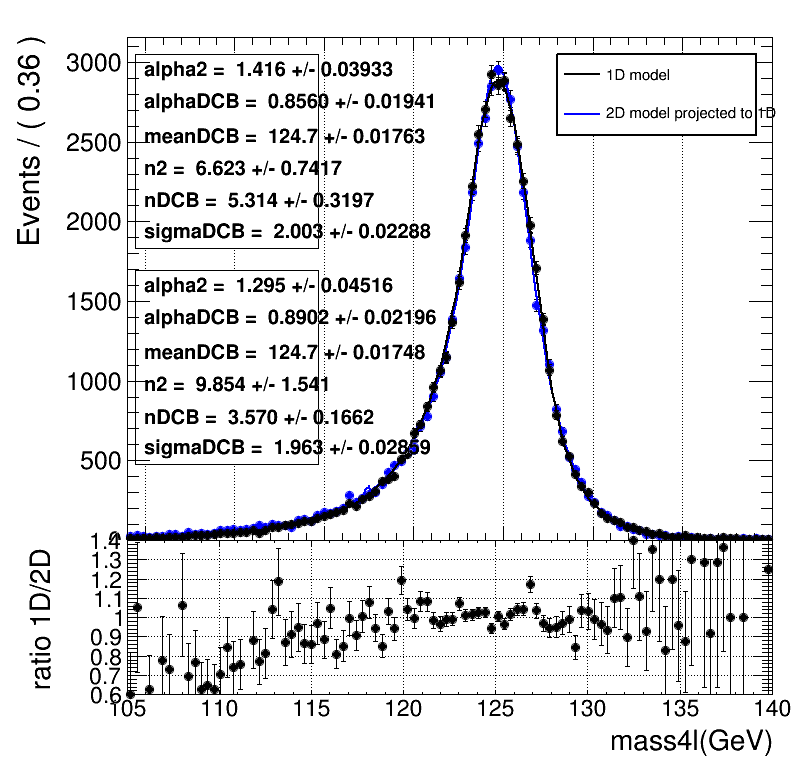
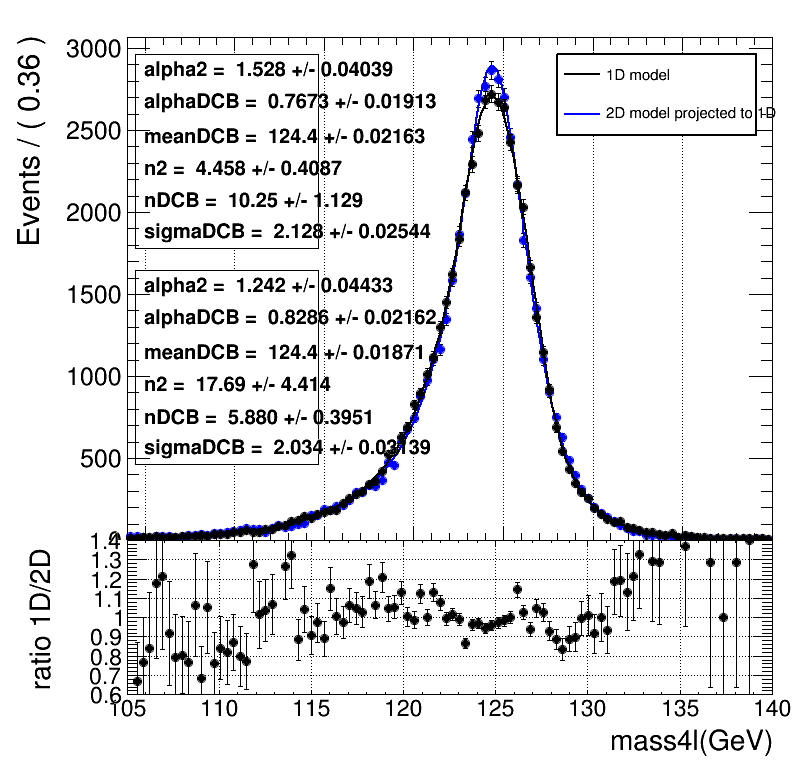
2016MC electron

diff --git a/ZClosure/doAllClosure_mZ.py b/ZClosure/doAllClosure_mZ.py
@@ -3,10 +3,10 @@ import time
 
 def doAllClosure(fs, plotPath, Z_width, plotBinInfo, singleCB_tail, pTErrCorrections):
 
-    massZErr_rel_bins = [0,0.008]
+    massZErr_rel_bins = [0,0.0085]
     nDiv = 8
     for i in range(nDiv):
-       massZErr_rel_bins.append(massZErr_rel_bins[-1]+(0.03-0.008)/nDiv)
+       massZErr_rel_bins.append(massZErr_rel_bins[-1]+(0.03-0.0085)/nDiv)
     massZErr_rel_bins.append(0.04)
     massZErr_rel_bins.append(0.1)
 #    massZErr_rel_bins.append(1)
@@ -24,9 +24,11 @@ def doAllClosure(fs, plotPath, Z_width, plotBinInfo, singleCB_tail, pTErrCorrect
 #    inputpath = '/raid/raid9/mhl/HZZ4L_Run2_post2016ICHEP/outputRoot/DY_2015MC_kalman_v4_NOmassZCut_addpTScaleCorrection/'
 #    inputpath = '/raid/raid9/mhl/HZZ4L_Run2_post2016ICHEP/outputRoot/DY_2015MC_kalman_v4_NOmassZCut/'
  
-    inputpath = '/raid/raid9/mhl/HZZ4L_Run2_post2016ICHEP/outputRoot/Data_2015D/'   
-    filename = 'DoubleLepton_m'+fs+'.root'
-#    filename = 'DYJetsToLL_M-50_kalman_v4_m'+fs+'.root'
+#    inputpath = '/raid/raid9/mhl/HZZ4L_Run2_post2016ICHEP/outputRoot/Data_2015D/'   
+#    filename = 'DoubleLepton_m'+fs+'.root'
+#2016MC
+    inputpath = '/raid/raid9/mhl/HZZ4L_Run2_post2016ICHEP/outputRoot/DY_2016MC_v1_20170201/'
+    filename = 'DYJetsToLL_M-50_kalman_v4_m'+fs+'.root'
     outtxtName = '../makeSummaryPlots/sigma_m'+fs+'.txt'
 
     call('echo " " > ' + outtxtName, shell=True)
@@ -49,7 +51,7 @@ def doAllClosure(fs, plotPath, Z_width, plotBinInfo, singleCB_tail, pTErrCorrect
 
 #plotBinInfo = '100 80 100'
 plotBinInfo = '300 60 120'
-plotpath = '/home/mhl/public_html/2017/20170118_test/scratch/'
+plotpath = '/home/mhl/public_html/2017/20170205_muonPtErrCorr/fitmassZ/'
 
 singleCB_tail_mu = '1.583 1.086' #first is alpha, second is n of singleCB
 singleCB_tail_e = '1.1443 2.5964' #first is alpha, second is n of singleCB
@@ -59,10 +61,10 @@ pTErrCorrections_mu = '1.251 1.292 1.117 1'
 pTErrCorrections_e = '1.245 1.140 1.077 1.178'
 
 #ZWidth = 2.44
-ZWidth = 2.49
+ZWidth = 2.43
 
-#doAllClosure('2mu', plotpath, ZWidth, plotBinInfo, singleCB_tail_mu, pTErrCorrections_mu)
-doAllClosure('2e', plotpath, ZWidth, plotBinInfo, singleCB_tail_e, pTErrCorrections_e)
+doAllClosure('2mu', plotpath, ZWidth, plotBinInfo, singleCB_tail_mu, pTErrCorrections_mu)
+#doAllClosure('2e', plotpath, ZWidth, plotBinInfo, singleCB_tail_e, pTErrCorrections_e)
 #doAllClosure('2e', plotpath, ZWidth, plotBinInfo, doubleCB_tail_e, pTErrCorrections_e)
 
 

diff --git a/compare1D2DModel/compare_fullSim_toy_template_lite.py b/compare1D2DModel/compare_fullSim_toy_template_lite.py
@@ -129,7 +129,7 @@ def MakeComparePlot_1D(w, binInfo, xTitle, yTitle, saveName):
     legend.SetFillColor(0)
     legend.SetBorderSize(1)
     legend.Draw('SAME')
-    c1.SaveAs("/home/mhl/public_html/2016/20161205_mass/m4lfit/"+saveName+".png")
+    c1.SaveAs("/home/mhl/public_html/2017/20170203_Hmass_4e/"+saveName+".png")
 
 #fullSimPath = "/cms/data/store/user/t2/users/mhl/"
 #fullSimPath = "/raid/raid9/mhl/HZZ4L_Run2_post2016ICHEP/HiggsMass_2015MC/Mass_2015MC/Fit_PereventMerr/"
@@ -141,28 +141,28 @@ toyPath = "/raid/raid9/mhl/HZZ4L_Run2/HZZ4L/PereventMassErrCorr_2016ICHEP/getCor
 
 #templatePath = "/raid/raid9/mhl/HZZ4L_Run2_post2016ICHEP/HiggsMass_2015MC/Mass_2015MC/CreateDatacards_Moriond2016_JES_v0_dev_ZJetsOn_10fb_1_ggHOnly_relativeError_test/cards_sm13_1D_refit_2p7fb_CB/HCG/125/"
 
-templatePath = "/raid/raid9/mhl/HZZ4L_Run2_post2016ICHEP/HiggsMass_HZZ4L/packages/doMeasurement/CreateDatacards_test_allFinalStates_v1/cards_sm13_1Debe_refit_2p7fb_CB/HCG/125/"
+templatePath = "/raid/raid9/mhl/HZZ4L_Run2_post2016ICHEP/HiggsMass_HZZ4L/packages/doMeasurement/CreateDatacards_Moriond17_eOnly_20170201/cards_sm13_1Debe_reco_2p7fb_CB/HCG/125/"
 #templatePath = "/raid/raid9/mhl/HZZ4L_Run2_post2016ICHEP/HiggsMass_HZZ4L/packages/doMeasurement/CreateDatacards_test_allFinalStates_v1/cards_sm13_1Debe_reco_2p7fb_CB/HCG/125/"
 
 #fullSimTree = "ggH_2015MC_mH125.root"
-fullSimTree = "test.root"
+fullSimTree = "ggH125_2016MC.root"
 toy = "hzz4l_4muS_13TeV_1D_refit_withToys.input.root"
-template = "hzz4l_2e2muS_13TeV.input.root"
+template = "hzz4l_4eS_13TeV.input.root"
 
 rooVarName = "CMS_zz4l_massErr"
 #varFullSimName = "mass4l"
 #varFullSimName = "mass4lREFIT"
 #pdfName = "ggH_hzz"
 #rooVarName = "CMS_zz4l_massErr"
-varFullSimName = "mass4lErrREFIT/mass4lREFIT"
-#varFullSimName = "mass4lErr/mass4l"
-pdfName = "pdfErrS_3"
+#varFullSimName = "mass4lErrREFIT/mass4lREFIT"
+varFullSimName = "mass4lErr/mass4l"
+pdfName = "pdfErrS_2"
 
-cut = "passedFullSelection && finalState > 2 && mass4l > 105 && mass4l < 140"
+cut = "passedFullSelection && finalState == 2 && mass4l > 105 && mass4l < 140"
 
 xTitle = varFullSimName#"mass4lREFIT"
 yTitle = ""
-saveName = "compare_mass4lErr_model_2e2mu_refit"
+saveName = "compare_mass4lErr_model_4e_reco"
 #saveName = "compare_mass4lErr_model_2e2mu_reco"
 
 path = {'fullSim': fullSimPath, 'toy': toyPath, 'template': templatePath}

diff --git a/HClosure/makePlot_1D_fit.py b/HClosure/makePlot_1D_fit.py
@@ -68,8 +68,14 @@ def MakeFitPlotFromTree(tree, paraConfig, fitResult):
 
     w.factory('DoubleCB::doubleCB(x[' + str(xmin) + ',' + str(xmax) + '], \
                                  meanDCB[125,120,130], sigmaDCB[1,0,10], \
-                                 alphaDCB[0.9876], nDCB[4.394], alpha2[2.022], n2[3.256])')
+                                 alphaDCB[1,0.9,1.1], nDCB[6,5,7], alpha2[2,1.5,2.5], n2[2.5,2,3])')
 
+
+#2016MC
+#4e reco                               alphaDCB[0.895], nDCB[8.383], alpha2[2.238], n2[2.848])')
+#4e refit                              alphaDCB[0.9629], nDCB[6.489], alpha2[2.067], n2[2.408])')
+
+#2015MC
 # 4 point of 4e refit                                 alphaDCB[1.112], nDCB[3.984], alpha2[2.338], n2[2.15])')
 # 3 point of 4e refit                                 alphaDCB[0.9876], nDCB[4.394], alpha2[2.022], n2[3.256])')
 # 3 point of 4e reco                                 alphaDCB[0.95], nDCB[4.23], alpha2[2.189], n2[3.04])')
@@ -104,8 +110,8 @@ def MakeFitPlotFromTree(tree, paraConfig, fitResult):
     
     dataHist1 = RooDataHist('dataHist1', 'dataHist1', RooArgList(w.var('x')), HIST1, 1)
     pdf = w.pdf(pdfName)
-    fFit = pdf.fitTo(dataHist1)#, RooFit.PrintLevel(-1))
-    
+    fFit = pdf.fitTo(dataHist1,RooFit.Save(kTRUE))#, RooFit.PrintLevel(-1))
+
     xframe = w.var('x').frame(RooFit.Title(xTitle))
     
     dataHist1.plotOn(xframe, RooFit.MarkerStyle(20), RooFit.MarkerColor(1))
@@ -132,6 +138,8 @@ def MakeFitPlotFromTree(tree, paraConfig, fitResult):
     dummy.Draw()
     
     xframe.Draw('same')
+    chi2 = xframe.chiSquare(fFit.floatParsFinal().getSize())
+    dof =  fFit.floatParsFinal().getSize()
     
     legend = TLegend(0.15,0.9,0.42,0.95)
     #legend.AddEntry(HIST2, legend2, 'l')
@@ -147,6 +155,8 @@ def MakeFitPlotFromTree(tree, paraConfig, fitResult):
     latex.SetTextFont(42)
     latex.SetTextAlign(11)
     latex.DrawLatex(0.18, 0.45, latexNote1)
+    latex.DrawLatex(0.6, 0.3, "#chi^{2}/DOF = %.3f" %(chi2/dof))
+
     c1.SaveAs(savePath+saveName+'.png')
     c1.SaveAs(savePath+saveName+'.pdf')
 

diff --git a/HClosure/doAllClosure_H.py b/HClosure/doAllClosure_H.py
@@ -12,7 +12,7 @@ def doAllClosure(fs, filename, plotpath, doubleCB_tail, doREFIT):
        mass4lErr_bins.append(1)
     else:
        mass4lErr_bins = [0,0.009]
-       nDiv = 6
+       nDiv = 8#6
        for i in range(nDiv):
            mass4lErr_bins.append(mass4lErr_bins[-1]+(0.02-0.009)/nDiv)
        mass4lErr_bins.append(1)
@@ -45,8 +45,8 @@ def doAllClosure(fs, filename, plotpath, doubleCB_tail, doREFIT):
         print cmd
         call(cmd, shell=True)
 
-filename = 'test.root'
-plotpath = '/home/mhl/public_html/2016/20161213_mass/scratch/'
+filename = 'ggH125_2016MC.root'
+plotpath = '/home/mhl/public_html/2017/20170203_Hmass_4e/fitmassH_refit/'
 
 doubleCB_tail_4mu_reco = '1.2547 2.1116 1.8509 3.0920' # a1,n1,a2,n2
 doubleCB_tail_4mu_refit = '1.2741 2.02 1.99 2.71' 

diff --git a/ZClosure/MySelector.C b/ZClosure/MySelector.C
@@ -40,9 +40,9 @@ double MySelector::ApplyCorr(double pT, double eta, double pTErr, int ecalDriven
  if (ecalDriven) {
 
     if (abs(eta) < 1 && pTErr/pT < 0.03 ) scale = pTCorr(pT,eta,fs,0); // LUT_1 is for |eta| < 1 && pTErr/pT < 0.03
-    if (abs(eta) < 1 && pTErr/pT > 0.03 ) scale = 1.02;
+    if (abs(eta) < 1 && pTErr/pT > 0.03 ) scale = 1.03;
     if (abs(eta) >= 1 && pTErr/pT < 0.07 ) scale = pTCorr(pT,eta,fs,1); // LUT_2 is for |eta| > 1 && pTErr/pT < 0.06
-    if (abs(eta) >= 1 && pTErr/pT > 0.07 ) scale = 0.67;
+    if (abs(eta) >= 1 && pTErr/pT > 0.07 ) scale = 0.74;
 
     } else {
 

diff --git a/compare1D2DModel/compare_1D_2D_mass4l.py b/compare1D2DModel/compare_1D_2D_mass4l.py
@@ -27,7 +27,7 @@ CMS_zz4l_massErr = RooRealVar('CMS_zz4l_massErr','CMS_zz4l_massErr',0,0.1)
 #w = RooWorkspace("w")
 
 for m4lType in ['refit', 'reco']:
-    for fs in ['4e','2e2mu', '4mu']:
+    for fs in ['4e']:#,'2e2mu', '4mu']:
 
 #        path = '/raid/raid9/mhl/HZZ4L_Run2/HZZ4L/PereventMassErrCorr_2016ICHEP/Mass_ICHEP2016/CreateDatacards_Moriond2016_JES_v0_dev_ZJetsOn_10fb_1_ggHOnly_relativeError/'
 #        path = '/raid/raid9/mhl/HZZ4L_Run2/HZZ4L/PereventMassErrCorr_2016ICHEP/getCorrection_ICHEP2016/toyStudy_test/STEP4_getMass_asimov_runOnIHEPA/'

diff --git a/ZClosure/makePlot_1D_fit.py b/ZClosure/makePlot_1D_fit.py
@@ -99,7 +99,7 @@ def MakeFitPlotFromTree(tree, paraConfig, fitResult):
     w.factory('SUM:BWplusEXP(f1[0,1]*bw, exp)')
     w.factory('SUM:BWplusPOLY3(f1[0,1]*bw, poly3)')
 
-    w.factory('SUM:model(fsig[0.9,0.7,1]*BWxCB, bkg)')
+    w.factory('SUM:model(fsig[0.9,0.7,0.99]*BWxCB, bkg)')
     
     dataHist1 = RooDataHist('dataHist1', 'dataHist1', RooArgList(w.var('x')), HIST1, 1)
     pdf = w.pdf(pdfName)
